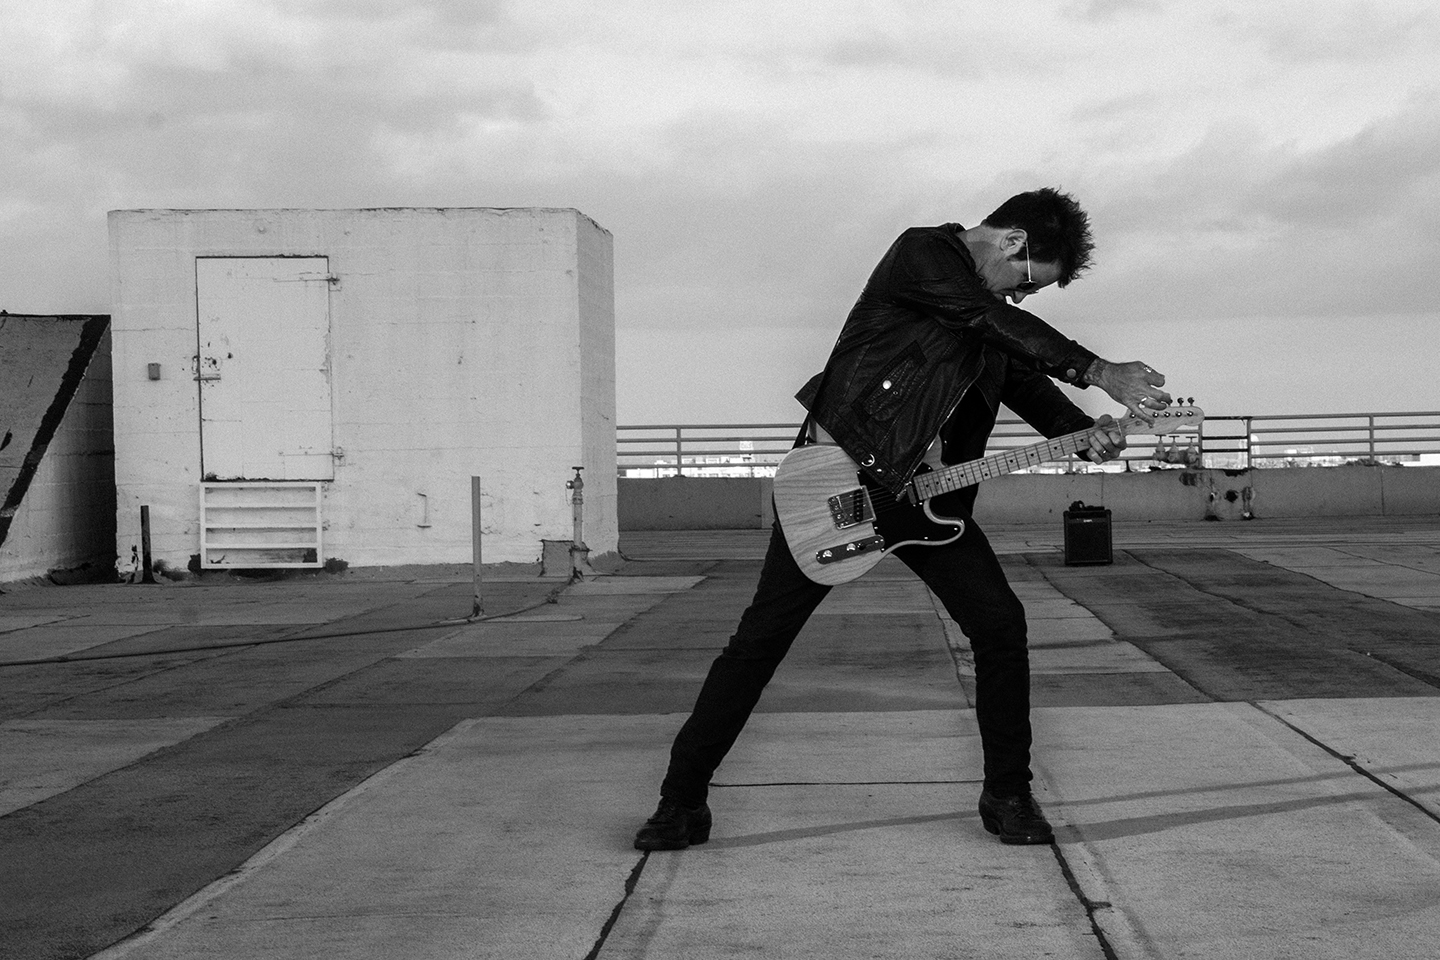
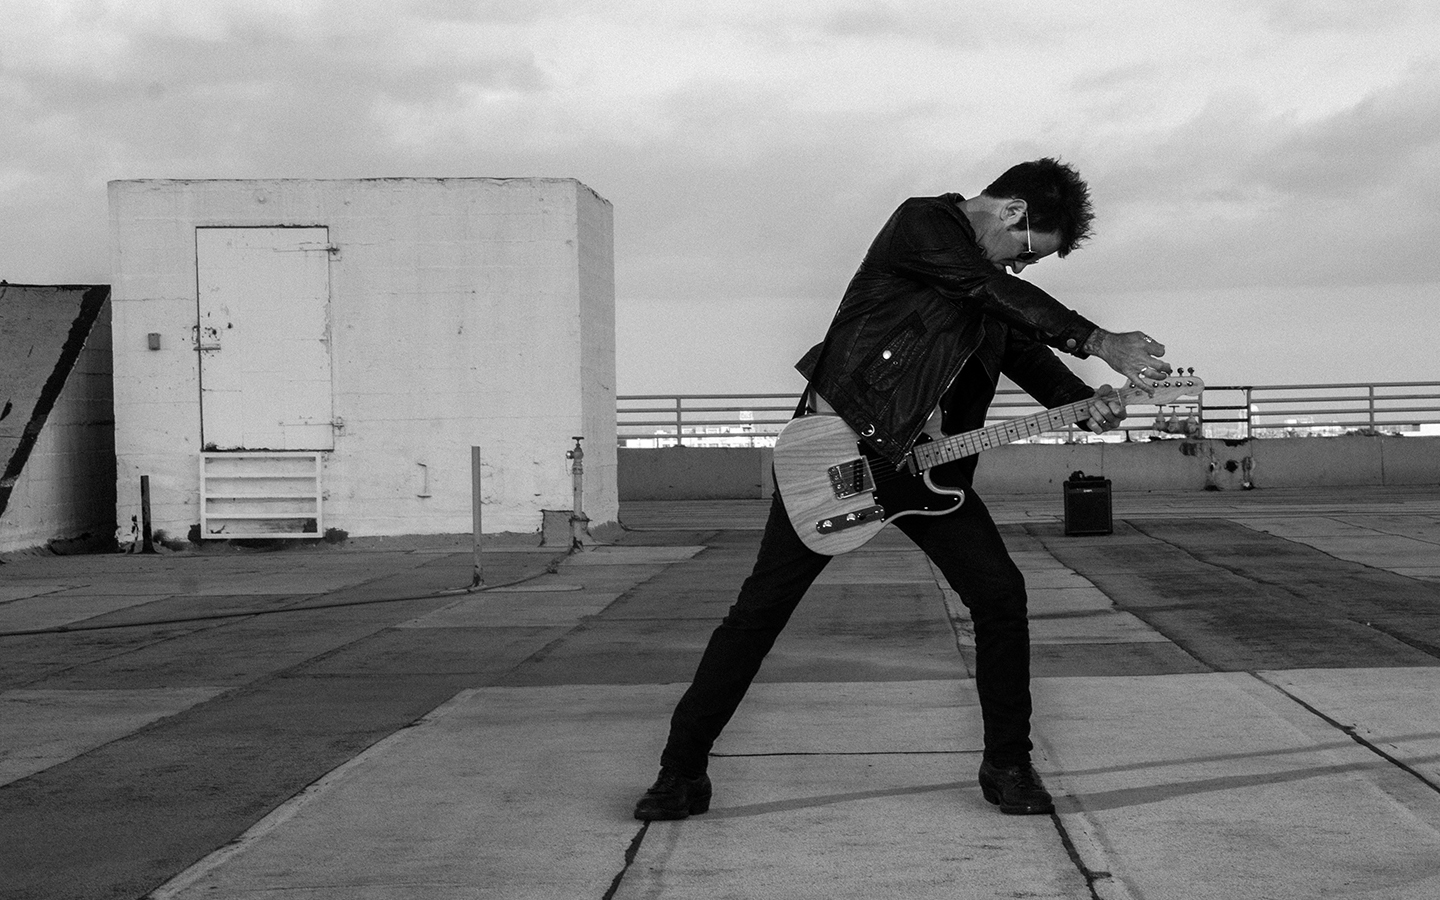
photos
resized photos to 1440 x 900
sized photos with css to fit in viewport

diff --git a/index.html b/index.html
@@ -58,11 +58,11 @@
                 </li>
                 <li class="active"><a href="#music">Music</a>
                 </li>
-                <li class="active"><a href="#bio">Bio</a>
-                </li>
                 <li class="active"><a href="#photos">Photos</a>
                 </li>
-                <li class="active"><a href="#contact">Contact</a>
+                <li class="active"><a href="#about">About</a>
+                </li>
+                <li class="active"><a href="#connect">Connect</a>
                 </li>
             </ul>
         </div>
@@ -145,69 +145,13 @@
             </div>
         </div>
     </div>
-    <div class="row grey_background solid" id="bio">
-        <div class="col-md-12 center_align">
-            <h2>BIO</h2>
-        </div>
-    </div>
-    <div class="row grey_background solid">
-        <div class="col-md-6 center_align">
-            picture
-        </div>
-        <div class="col-md-6 left_align">
-            Artist:<br />
-            Matt Bachman<br />
-            <br />
-            Songwriter/Guitarist<br />
-            Americana – Rock<br />
-            Los Angeles, CA<br />
-            <br />
-            Matt Bachman songwriter/guitarist has over 25 years of songwriting experience. He
-            is an emerging talent in the songwriting community. Currently he is busy writing for
-            commercial placement and licensing. He is constantly immersed in writing and
-            recording new material. Take a listen to some of the new songs featured <a href="#music">here</a>.<br />
-            <br />
-            Projects and collaborations:<br />
-            <br />
-            1996-1998 “Pillohead”<br />
-            Released 15 song CD<br />
-            Wrote: Music and lyrics<br />
-            Tight Box Publishing © 1996 BMI<br />
-            <br />
-            1999-2005 “Slow Time Mondays”<br />
-            Released 13 song CD<br />
-            Co-wrote: Second guitar parts<br />
-            Tight Box Publishing © 1998 BMI<br />
-            <br />
-            2005 KINGBABY<br />
-            Released 13 song CD<br />
-            Co-wrote: Music and lyrics<br />
-            Tight Box Publishing © 2005 BMI<br />
-            <br />
-            2006 Movie “Dead Lenny”<br />
-            Song placement: “Life Isn’t Fair”<br />
-            Co-wrote: Music and lyrics<br />
-            Nickle Bag Wreckords © 2006 BMI<br />
-            <br />
-            2006-2013<br />
-            Worked on multiple recording sessions, touring and songwriting with local artists<br />
-            <br />
-            2013-2014<br />
-            Live guitarist: Emily Clibourn<br />
-            <br />
-            2014-Present<br />
-            Matt Bachman has continued to work with many talented artists, producers and
-            projects over the years. At the moment he is busy writing for commercial placement
-            and licensing. Upon request, he is interested in songwriting, co-writing, and guitar
-            sessions.<br />
-        </div>
-    </div>
-    <div class="row" id="photos">
-        <div class="col-md-12 center_align">
+    <div class="row black_background solid center_align" id="photos">
+        <div class="col-md-1"></div>
+        <div class="col-md-10 center_align">
             <div class="container full_width">
-           <!-- <div class="col-md-12 center_align">
-                <h2>PHOTOS</h2>
-                <div class="container full_width"> -->
+                <!-- <div class="col-md-12 center_align">
+                     <h2>PHOTOS</h2>
+                     <div class="container full_width"> -->
                 <div id="photoCarousel" class="carousel slide full_width" data-ride="carousel" data-interval="false">
                     <!-- Indicators -->
                     <ol class="carousel-indicators">
@@ -268,11 +212,68 @@
                 </div>
             </div>
         </div>
+        <div class="col-md-1"></div>
     </div>
-    <div class="row black_background solid" id="contact">
+    <div class="row grey_background solid" id="about">
+        <div class="col-md-12 center_align">
+            <h2>ABOUT</h2>
+        </div>
+        <div class="col-md-6 center_align">
+            picture
+        </div>
+        <div class="col-md-6 left_align">
+            Artist:<br />
+            Matt Bachman<br />
+            <br />
+            Songwriter/Guitarist<br />
+            Americana – Rock<br />
+            Los Angeles, CA<br />
+            <br />
+            Matt Bachman songwriter/guitarist has over 25 years of songwriting experience. He
+            is an emerging talent in the songwriting community. Currently he is busy writing for
+            commercial placement and licensing. He is constantly immersed in writing and
+            recording new material. Take a listen to some of the new songs featured <a href="#music">here</a>.<br />
+            <br />
+            Projects and collaborations:<br />
+            <br />
+            1996-1998 “Pillohead”<br />
+            Released 15 song CD<br />
+            Wrote: Music and lyrics<br />
+            Tight Box Publishing © 1996 BMI<br />
+            <br />
+            1999-2005 “Slow Time Mondays”<br />
+            Released 13 song CD<br />
+            Co-wrote: Second guitar parts<br />
+            Tight Box Publishing © 1998 BMI<br />
+            <br />
+            2005 KINGBABY<br />
+            Released 13 song CD<br />
+            Co-wrote: Music and lyrics<br />
+            Tight Box Publishing © 2005 BMI<br />
+            <br />
+            2006 Movie “Dead Lenny”<br />
+            Song placement: “Life Isn’t Fair”<br />
+            Co-wrote: Music and lyrics<br />
+            Nickle Bag Wreckords © 2006 BMI<br />
+            <br />
+            2006-2013<br />
+            Worked on multiple recording sessions, touring and songwriting with local artists<br />
+            <br />
+            2013-2014<br />
+            Live guitarist: Emily Clibourn<br />
+            <br />
+            2014-Present<br />
+            Matt Bachman has continued to work with many talented artists, producers and
+            projects over the years. At the moment he is busy writing for commercial placement
+            and licensing. Upon request, he is interested in songwriting, co-writing, and guitar
+            sessions.<br />
+        </div>
+    </div>
+
+    <div class="row black_background solid" id="connect">
         <div class="container full_width">
             <div class="col-md-12 center_align">
-                <h2>CONTACT</h2>
+                <h2>CONNECT</h2>
                 <a href="http://www.facebook.com/mrbachmanmusic" target="_blank" class="icon"><span class="fa-stack fa-lg"><i class="fa fa-circle fa-inverse fa-stack-2x"></i><i class="fa fa-facebook fa-stack-1x"></i></span></a>
                 <a href="http://www.twitter.com/mrbachmanmusic" target="_blank" class="icon"><span class="fa-stack fa-lg"><i class="fa fa-circle fa-inverse fa-stack-2x"></i><i class="fa fa-twitter fa-stack-1x"></i></span></a>
                 <a href="http://www.instagram.com/mrbachmanmusic" target="_blank" class="icon"><span class="fa-stack fa-lg"><i class="fa fa-circle fa-inverse fa-stack-2x"></i><i class="fa fa-instagram fa-stack-1x"></i></span></a>

diff --git a/css/ui.css b/css/ui.css
@@ -1,3 +1,6 @@
+h2 {
+    margin-bottom: 20px;
+}
 .center_align {
     text-align:center;
 }
@@ -23,8 +26,11 @@
 #content.container {
     width: 100%;
 }
-#photos .col-md-12 {
+#photos .col-md-10 {
     padding: 0;
+}
+#photos.black_background {
+    padding: 0 !important;
 }
 a.left.carousel-control {
     width: 30px;
